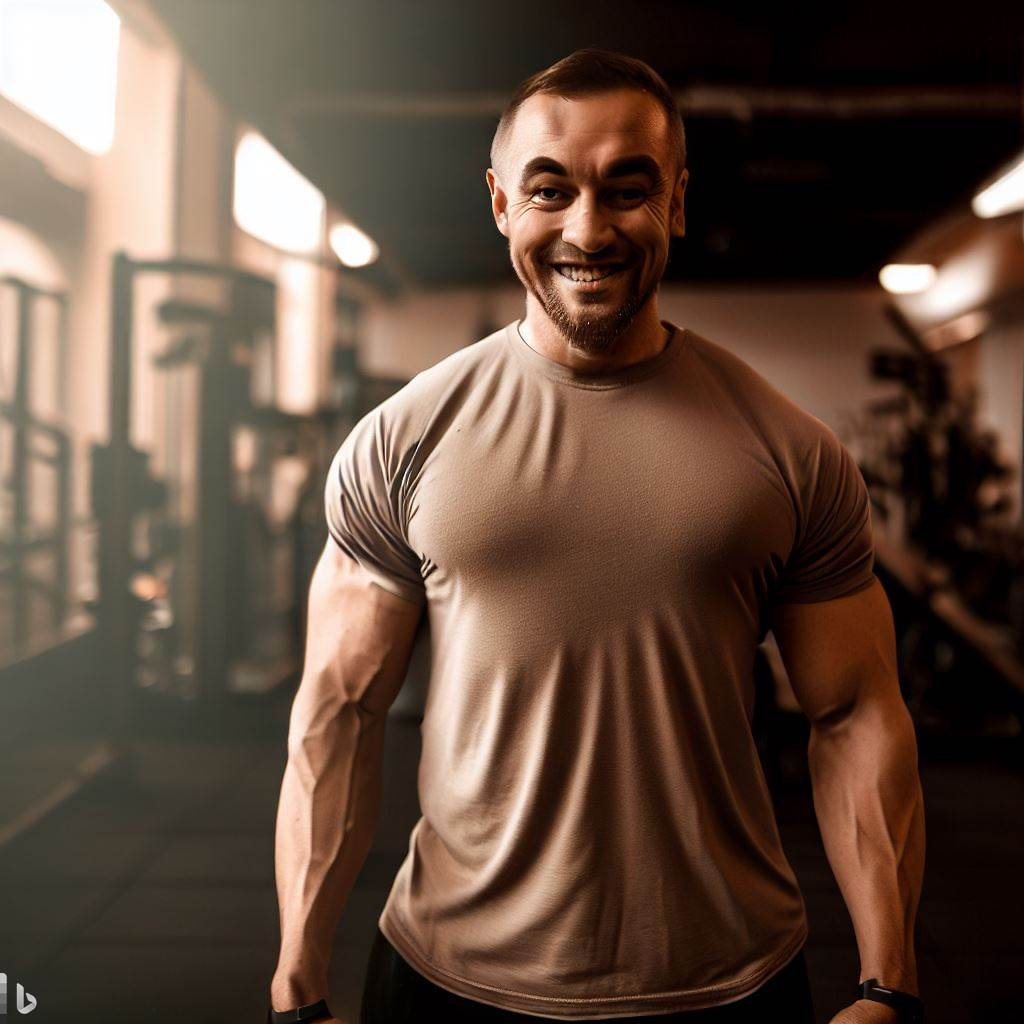
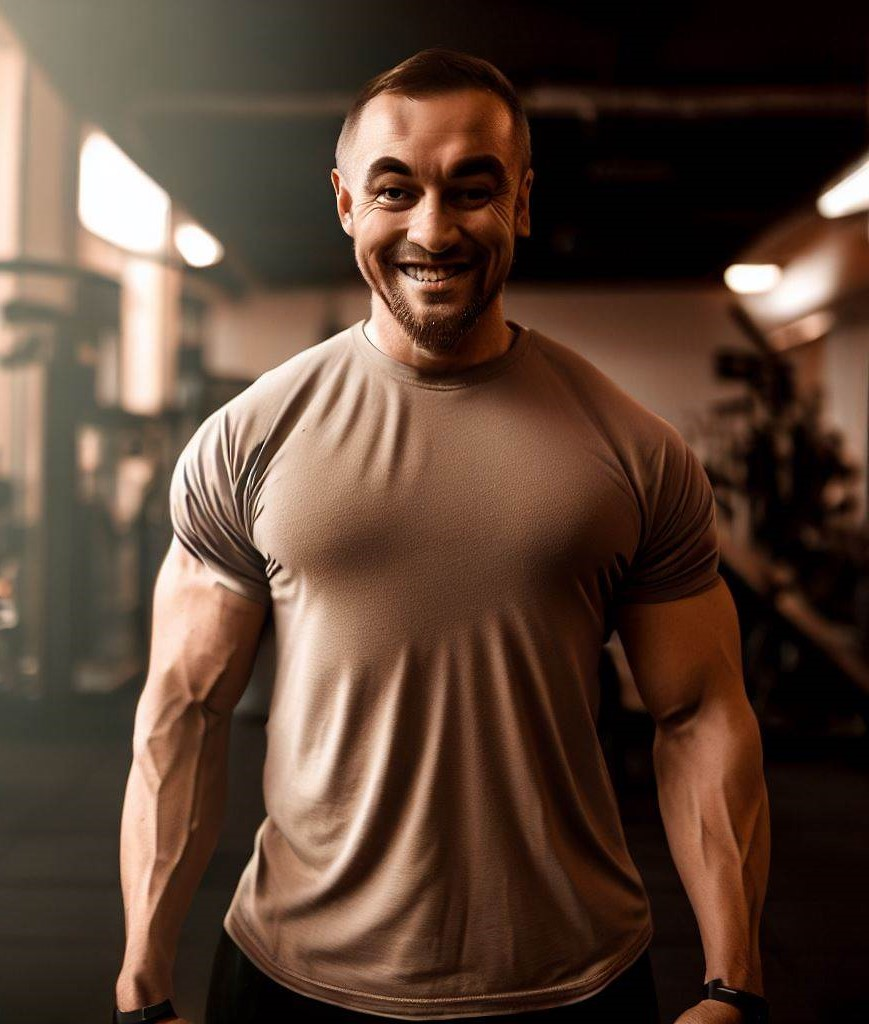
contact page complete

diff --git a/src/sections/contactus/ContactUs.tsx b/src/sections/contactus/ContactUs.tsx
@@ -1,23 +1,34 @@
 import React from 'react'
 import { SelectedPage } from '../../shared/types'
-import {motion} from "framer-motion"
+import { motion } from "framer-motion"
+import { useForm } from "react-hook-form";
 import SectionTitle from '../../components/SectionTitle'
 import contactUsImage from "../../assets/images/trainer_3.jpg"
 
 type Props = {
-    setSelectedPage: (value: SelectedPage) => void
+  setSelectedPage: (value: SelectedPage) => void
 }
 
 const ContactUs = ({ setSelectedPage }: Props) => {
-  return ( <section 
+
+  const { register, trigger, formState: { errors } } = useForm();
+
+  const onSubmit = async (e: any) => {
+    const isValid = await trigger();
+    if (!isValid) {
+      e.preventDefault();
+    }
+  };
+
+  return (<section
     id='benefits'
-  className='bg-primary-100 py-20 px-4'>
+    className='bg-primary-100 py-20 px-4'>
 
     <motion.div
-    onViewportEnter={() => setSelectedPage(SelectedPage.ContactUs)}
-    className='w-5/6 mx-auto flex flex-col items-center'>
+      onViewportEnter={() => setSelectedPage(SelectedPage.ContactUs)}
+      className='w-5/6 mx-auto flex flex-col items-center'>
 
-       {/* Main header & description */}
+      {/* Main header & description */}
       <motion.div
         initial="hidden"
         whileInView="visible"
@@ -32,21 +43,89 @@ const ContactUs = ({ setSelectedPage }: Props) => {
         <p className='text-justify my-5 text-sm '>Lorem ipsum dolor, sit amet consectetur adipisicing elit. Dignissimos possimus vitae quia et earum adipisci nam in quis amet sint dolores fuga expedita veritatis, at nihil! Quas aut alias a.</p>
       </motion.div>
 
+
+      {/* Form & Image*/}
       <motion.div
-      className="mt-10 sm:mt-0"
-      initial="hidden"
-      whileInView="visible"
-      viewport={{ once: true, amount: 0.5 }}
-      transition={{ duration: 0.5 }}
-      variants={{
-        hidden: { opacity: 0, y: 100 },
-        visible: { opacity: 1, y: 0 },
-      }}>
-        <form>
+        className="mt-10 text-center sm:mt-0 sm:flex"
+        initial="hidden"
+        whileInView="visible"
+        viewport={{ once: true, amount: 0.5 }}
+        transition={{ duration: 0.5 }}
+        variants={{
+          hidden: { opacity: 0, y: 100 },
+          visible: { opacity: 1, y: 0 },
+        }}>
+
+        <form
+          target="_blank"
+          onSubmit={onSubmit}
+          action="https://formsubmit.co/nnilviaa@gmail.com"
+          method="POST"
+          className='flex flex-col gap-2 sm:justify-center'
+        >
+          {/* name input */}
+          <input
+            type="text"
+            placeholder="NAME"
+            className='outline-none text-primary-500 sm:text-lg w-full rounded-lg bg-primary-300 px-5 py-3 placeholder-white'
+            {...register("name", {
+              required: true,
+              maxLength: 100,
+            })}
+          />
+          {errors.name && (
+            <p className="mt-1 text-primary-500">
+              {errors.name.type === "required" && "This field is required."}
+              {errors.name.type === "maxLength" &&
+                "Max length is 100 char."}
+            </p>
+          )}
+
+          {/* email input */}
+          <input
+            type="text"
+            placeholder="EMAIL"
+            className='outline-none text-primary-500 sm:text-lg w-full rounded-lg bg-primary-300 px-5 py-3 placeholder-white'
+            {...register("email", {
+              required: true,
+              pattern: /^[A-Z0-9._%+-]+@[A-Z0-9.-]+\.[A-Z]{2,}$/i,
+            })}
+          />
+          {errors.email && (
+            <p className="mt-1 text-primary-500 ">
+              {errors.email.type === "required" && "This field is required."}
+              {errors.email.type === "pattern" && "Invalid email address."}
+            </p>
+          )}
+
+          {/* message input */}
+          <textarea
+            rows={4}
+            cols={50}
+            placeholder="MESSAGE"
+            className='outline-none text-primary-500 sm:text-lg w-full rounded-lg bg-primary-300 px-5 py-3 placeholder-white'
+            {...register("message", {
+              required: true,
+              maxLength: 2000,
+            })}
+          />
+          {errors.message && (
+            <p className="text-primary-500">
+              {errors.message.type === "required" && "This field is required."}
+              {errors.message.type === "maxLength" && "Max length is 2000 char."}
+            </p>
+          )}
+
+          <button
+            type="submit"
+            className="mt-1 rounded-lg bg-primary-500 text-primary-100 px-20 py-3 transition duration-500 hover:bg-primary-300"
+          >
+            SUBMIT
+          </button>
 
         </form>
-
-        <img className='object-cover sm:1/2' src={contactUsImage}/>
+        {/* image */}
+        <img className='object-cover mt-10 sm:mt-0 sm:w-1/2 sm:pl-16' src={contactUsImage} />
       </motion.div>
 
     </motion.div>
